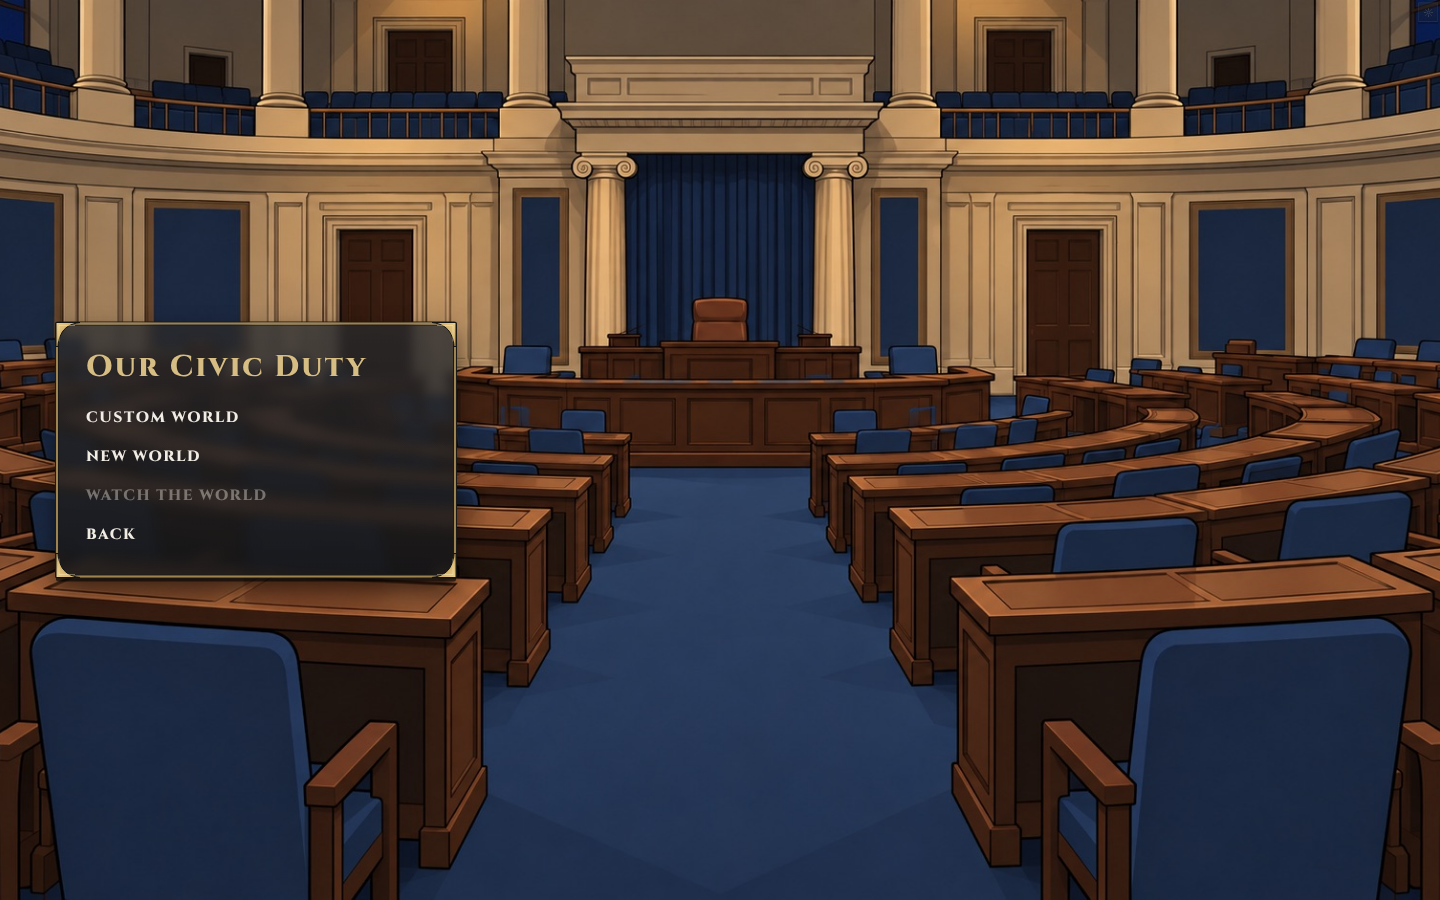
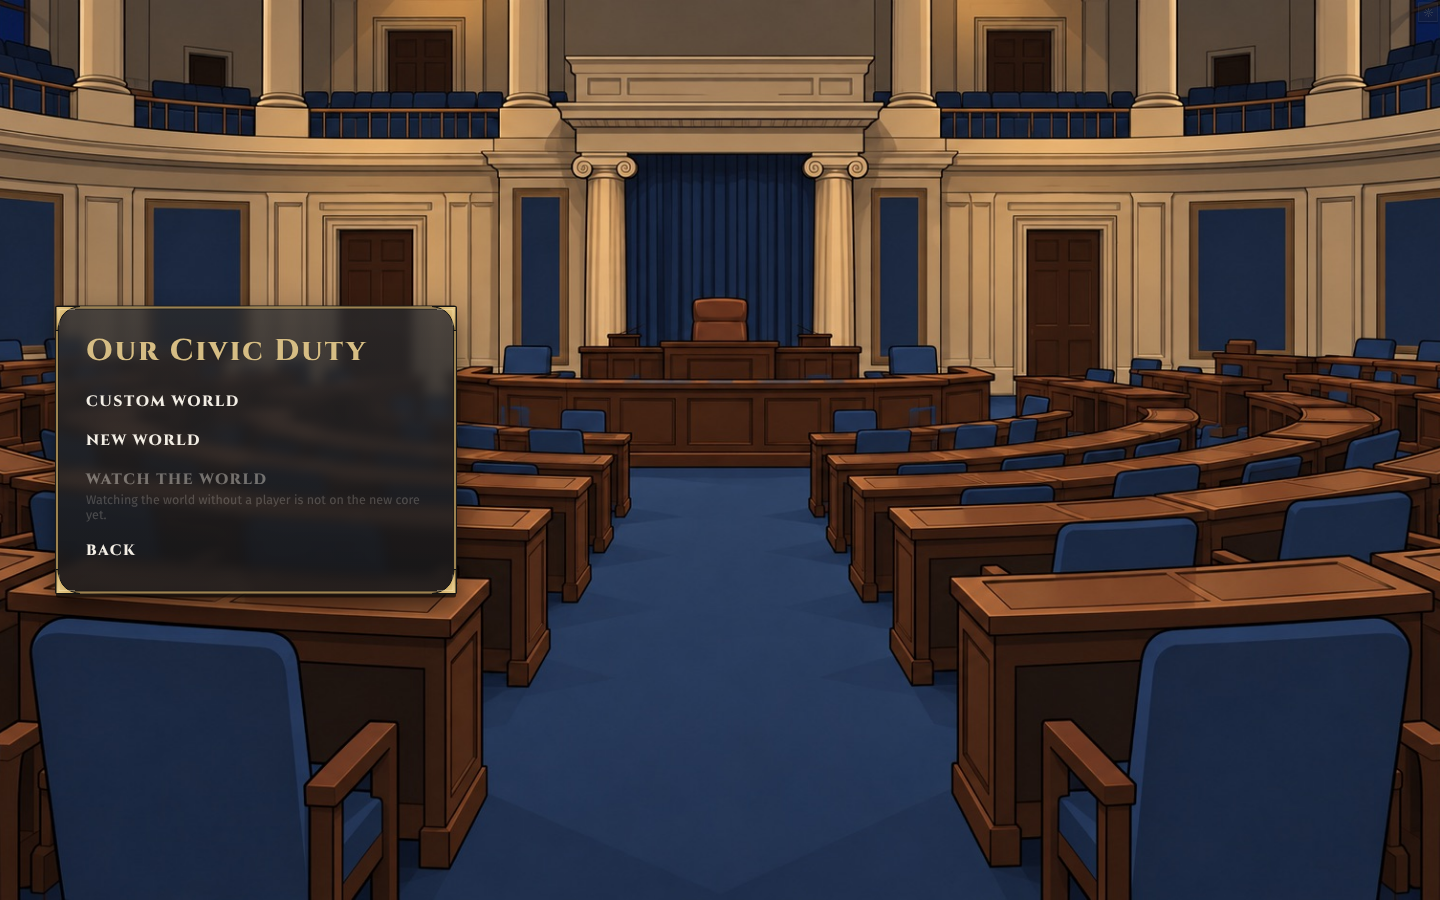
Title: every dimmed entry says why
Claude-Session: https://claude.ai/code/session_01Dq6vUQeMWH9X4Ks4dBkdDt

Changed region(s): [[0.0312, 0.3422, 0.3438, 0.56], [0.0312, 0.5911, 0.3438, 0.6844]]

diff --git a/src/bench/play.html b/src/bench/play.html
@@ -95,7 +95,12 @@
             data-testid="continue"
             disabled
           >
-            <b>Continue</b><small id="front-continue-life"></small>
+            <b>Continue</b
+            ><small
+              class="reason"
+              data-label="titleUnavailable.continue"
+            ></small
+            ><small id="front-continue-life"></small>
           </button>
           <button
             id="front-saves"
@@ -104,7 +109,8 @@
             data-testid="open-saves"
             disabled
           >
-            <b>Saved games</b>
+            <b>Saved games</b
+            ><small class="reason" data-label="titleUnavailable.saves"></small>
           </button>
           <button
             id="front-options"
@@ -121,7 +127,11 @@
             data-testid="title-patch-notes"
             disabled
           >
-            <b>Patch notes</b>
+            <b>Patch notes</b
+            ><small
+              class="reason"
+              data-label="titleUnavailable.patchNotes"
+            ></small>
           </button>
           <!-- Quit is the desktop's; a browser tab has none to offer. -->
           <button
@@ -190,7 +200,8 @@
             data-testid="watch-world"
             disabled
           >
-            <b>Watch the world</b>
+            <b>Watch the world</b
+            ><small class="reason" data-label="titleUnavailable.watch"></small>
           </button>
           <button
             id="advanced-back"

diff --git a/src/bench/play.css b/src/bench/play.css
@@ -746,6 +746,13 @@ input[type="range"]::-moz-range-thumb {
   font-size: 22px;
   color: #fff;
 }
+/* A dimmed title entry says why; an enabled one shows no reason. */
+.item .reason {
+  color: var(--text-3);
+}
+.item:not(:disabled) .reason {
+  display: none;
+}
 .item.link {
   color: var(--text-2);
   font: 400 13px var(--ui);

diff --git a/docs/release/changes/play-stop-13-start-a-life-or-new-world.md b/docs/release/changes/play-stop-13-start-a-life-or-new-world.md
@@ -1,0 +1,8 @@
+---
+id: play-stop-13-start-a-life-or-new-world
+impact: patch
+section: Fixed
+title: Dimmed title entries say why
+---
+
+Every dimmed entry on the title (Continue, Saved games, Patch notes, Watch the world) now shows a line saying why it is dimmed, and the world modes live only under the Advanced link.
